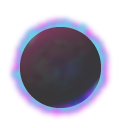
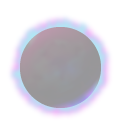
mise à jour des ressources

diff --git a/AndEngineSandBox/src/com/binomed/andengine/MonActiviteDansUneVue.java b/AndEngineSandBox/src/com/binomed/andengine/MonActiviteDansUneVue.java
@@ -47,13 +47,13 @@ public class MonActiviteDansUneVue extends BaseGameActivity implements IScrollDe
 	private Scene scene;
 
 	private BitmapTextureAtlas texture;
-	private TextureRegion textureRegionTrou, textureRegionTrouLight, textureRegionPerso;
-	private TiledTextureRegion textureRegionPersoAnimated;
-	private Pion peg;
+	private TextureRegion regionTrou, regionTrouLight, regionDevil, regionAngel, regionTrash, regionHelp, regionCancel, regionAccept;
+	private TiledTextureRegion regionDevilAnimated, regionAngelAnimated;
+	private Pion movingDevil, movingAngel, currentMoving;
 	private PhysicsHandler physicsHandler;
 	private Rectangle rectangle;
 	private StaticPion[] holeSprite, holeLightSprite;
-	private Sprite perso;// , persoTmp;
+	private StaticPion devil, angel;// , persoTmp;
 	private boolean onRectangle;
 	private int currentHole = 0;
 	private HashMap<Long, StaticPion> mapPion = new HashMap<Long, MonActiviteDansUneVue.StaticPion>();
@@ -69,12 +69,12 @@ public class MonActiviteDansUneVue extends BaseGameActivity implements IScrollDe
 
 		@Override
 		public void onUpdate(float pSecondsElapsed) {
-			boolean rectangleTouch = rectangle.collidesWith(peg);
-			boolean persoTouch = perso.collidesWith(peg);
+			boolean rectangleTouch = rectangle.collidesWith(currentMoving);
+			boolean persoTouch = devil.collidesWith(currentMoving);
 
 			boolean holeTouch = false;
 			for (Sprite hole : holeSprite) {
-				holeTouch = hole.collidesWith(peg);
+				holeTouch = hole.collidesWith(currentMoving);
 				if (holeTouch) {
 					break;
 				}
@@ -95,7 +95,7 @@ public class MonActiviteDansUneVue extends BaseGameActivity implements IScrollDe
 				rectangle.setColor(pRed, pGreen, pBlue, pAlpha);
 				int i = 0;
 				for (Sprite hole : holeSprite) {
-					if (peg.isVisible() && peg.getX() < (hole.getX() + hole.getWidth())) {
+					if (currentMoving.isVisible() && currentMoving.getX() < (hole.getX() + hole.getWidth())) {
 						holeLightSprite[currentHole].setVisible(false);
 						holeLightSprite[i].setVisible(true);
 						currentHole = i;
@@ -105,18 +105,32 @@ public class MonActiviteDansUneVue extends BaseGameActivity implements IScrollDe
 				}
 			}
 
-			if (persoTouch && perso.getX() == peg.getX() && perso.getY() == peg.getY()) {
-				peg.setVisible(false);
+			if (persoTouch && devil.getX() == currentMoving.getX() && devil.getY() == currentMoving.getY()) {
+				currentMoving.setVisible(false);
 			}
 			if (holeTouch) {
 				for (StaticPion hole : holeSprite) {
-					if (hole.getX() == peg.getX() && hole.getY() == peg.getY()) {
-						peg.setVisible(false);
-						if (peg.getID_Pion() == -1 && hole.getID() == -1) {
-							StaticPion persoTmp = new StaticPion(peg.getX(), peg.getY(), textureRegionPerso);
+					if (hole.getX() == currentMoving.getX() && hole.getY() == currentMoving.getY()) {
+						currentMoving.setVisible(false);
+						boolean add = false;
+						if (currentMoving.getID_Pion() == -1 && hole.getID() == -1) {
+							add = true;
+
+						}
+						// else if (currentMoving.getID_Pion() != -1) {
+						// StaticPion pion = mapPion.get(currentMoving.getID_Pion());
+						// if ((pion.angel && !currentMoving.angel) || (!pion.angel && currentMoving.angel)) {
+						// pegMove(pion);
+						// }
+						// add = true;
+						// }
+
+						if (add) {
+							StaticPion persoTmp = new StaticPion(currentMoving.getX(), currentMoving.getY(), currentMoving.isAngel() ? regionAngel : regionDevil);
+							persoTmp.setAngel(currentMoving.isAngel());
 							persoTmp.setID(System.currentTimeMillis());
 							persoTmp.setSourcePeg(false);
-							peg.setID_Pion(persoTmp.getID());
+							currentMoving.setID_Pion(persoTmp.getID());
 							hole.setID(persoTmp.getID());
 							mapPion.put(persoTmp.getID(), persoTmp);
 							mapHole.put(persoTmp.getID(), hole);
@@ -161,10 +175,16 @@ public class MonActiviteDansUneVue extends BaseGameActivity implements IScrollDe
 
 		texture = new BitmapTextureAtlas(1024, 128);
 
-		textureRegionPersoAnimated = BitmapTextureAtlasTextureRegionFactory.createTiledFromAsset(texture, this, "soldier.png", 0, 0, 8, 1);
-		textureRegionPerso = BitmapTextureAtlasTextureRegionFactory.createFromAsset(texture, this, "personnage.png", 320, 0);
-		textureRegionTrou = BitmapTextureAtlasTextureRegionFactory.createFromAsset(texture, this, "blackhole.png", 352, 0);
-		textureRegionTrouLight = BitmapTextureAtlasTextureRegionFactory.createFromAsset(texture, this, "blackhole_light.png", 480, 0);
+		regionDevilAnimated = BitmapTextureAtlasTextureRegionFactory.createTiledFromAsset(texture, this, "devil_animated.png", 0, 0, 8, 1);
+		regionAngelAnimated = BitmapTextureAtlasTextureRegionFactory.createTiledFromAsset(texture, this, "angel_animated.png", 256, 0, 8, 1);
+		regionDevil = BitmapTextureAtlasTextureRegionFactory.createFromAsset(texture, this, "devil.png", 512, 0);
+		regionAngel = BitmapTextureAtlasTextureRegionFactory.createFromAsset(texture, this, "angel.png", 544, 0);
+		regionTrou = BitmapTextureAtlasTextureRegionFactory.createFromAsset(texture, this, "blackhole.png", 576, 0);
+		regionTrouLight = BitmapTextureAtlasTextureRegionFactory.createFromAsset(texture, this, "blackhole_light.png", 704, 0);
+		regionTrash = BitmapTextureAtlasTextureRegionFactory.createFromAsset(texture, this, "trash.png", 832, 0);
+		regionCancel = BitmapTextureAtlasTextureRegionFactory.createFromAsset(texture, this, "cancel.png", 864, 0);
+		regionAccept = BitmapTextureAtlasTextureRegionFactory.createFromAsset(texture, this, "clean.png", 912, 0);
+		regionHelp = BitmapTextureAtlasTextureRegionFactory.createFromAsset(texture, this, "help.png", 960, 0);
 
 		getEngine().getTextureManager().loadTexture(texture);
 
@@ -184,38 +204,51 @@ public class MonActiviteDansUneVue extends BaseGameActivity implements IScrollDe
 		rectangle.setColor(pRed, pGreen, pBlue, pAlpha);
 		scene.attachChild(rectangle);
 
-		// Chargement d'une image
+		// Initialisation des trous
 		holeSprite = new StaticPion[2];
-		StaticPion hole = new StaticPion(50, 50, textureRegionTrou);
+		StaticPion hole = new StaticPion(50, 100, regionTrou);
 		scene.attachChild(hole);
 		holeSprite[0] = hole;
-		hole = new StaticPion(200, 50, textureRegionTrou);
+		hole = new StaticPion(200, 100, regionTrou);
 		scene.attachChild(hole);
 		holeSprite[1] = hole;
 
 		holeLightSprite = new StaticPion[2];
-		hole = new StaticPion(50, 50, textureRegionTrouLight);
+		hole = new StaticPion(50, 100, regionTrouLight);
 		scene.attachChild(hole);
 		hole.setVisible(false);
 		holeLightSprite[0] = hole;
-		hole = new StaticPion(200, 50, textureRegionTrouLight);
+		hole = new StaticPion(200, 100, regionTrouLight);
 		scene.attachChild(hole);
 		hole.setVisible(false);
 		holeLightSprite[1] = hole;
 
-		// Initialisation de notre tank
-		perso = new StaticPion(MonActiviteInteraction.CAMERA_LARGEUR / 2, MonActiviteInteraction.CAMERA_HAUTEUR - 100, textureRegionPerso);
-		scene.attachChild(perso);
-		peg = new Pion(MonActiviteInteraction.CAMERA_LARGEUR / 2, MonActiviteInteraction.CAMERA_HAUTEUR - 100, textureRegionPersoAnimated);
-		// Redimensionne notre tank
-		// peg.setScale(0.5f);
-		final PhysicsHandler physicsHandler = new PhysicsHandler(peg);
-		peg.registerUpdateHandler(physicsHandler);
-		scene.attachChild(peg);
-		// scene.registerTouchArea(peg);
-		scene.registerTouchArea(perso);
-		peg.setVisible(false);
+		// Initialisation des pions d'origine
+		devil = new StaticPion((MonActiviteInteraction.CAMERA_LARGEUR / 2) + 50, MonActiviteInteraction.CAMERA_HAUTEUR - 75, regionDevil);
+		devil.setAngel(false);
+		scene.attachChild(devil);
+		scene.registerTouchArea(devil);
+		angel = new StaticPion((MonActiviteInteraction.CAMERA_LARGEUR / 2) - 50, MonActiviteInteraction.CAMERA_HAUTEUR - 75, regionAngel);
+		angel.setAngel(true);
+		scene.attachChild(angel);
+		scene.registerTouchArea(angel);
 
+		// Initialisation des pions qui bougent
+		movingDevil = new Pion(0, 0, regionDevilAnimated);
+		movingDevil.setAngel(false);
+		final PhysicsHandler physicsHandler = new PhysicsHandler(movingDevil);
+		movingDevil.registerUpdateHandler(physicsHandler);
+		scene.attachChild(movingDevil);
+		movingDevil.setVisible(false);
+		movingAngel = new Pion(0, 0, regionAngelAnimated);
+		movingAngel.setAngel(true);
+		final PhysicsHandler physicsHandlerAngel = new PhysicsHandler(movingAngel);
+		movingAngel.registerUpdateHandler(physicsHandlerAngel);
+		scene.attachChild(movingAngel);
+		movingAngel.setVisible(false);
+		currentMoving = movingDevil;
+
+		// Parametrage de la scene
 		scene.registerUpdateHandler(updateHandler);
 		scene.setTouchAreaBindingEnabled(true);
 		return scene;
@@ -264,7 +297,7 @@ public class MonActiviteDansUneVue extends BaseGameActivity implements IScrollDe
 			@Override
 			public void run() {
 				if (mapPion.containsKey(sprite.getID())) {
-					peg.setID_Pion(-1l);
+					currentMoving.setID_Pion(-1l);
 					mapPion.remove(sprite.getID());
 					mapHole.get(sprite.getID()).setID(-1);
 					mapHole.remove(sprite.getID());
@@ -276,16 +309,22 @@ public class MonActiviteDansUneVue extends BaseGameActivity implements IScrollDe
 
 	}
 
-	public void delegateOnAreaTouched(TouchEvent pSceneTouchEvent, float pTouchAreaLocalX, float pTouchAreaLocalY) {
+	public void delegateOnAreaTouched(boolean angel, TouchEvent pSceneTouchEvent, float pTouchAreaLocalX, float pTouchAreaLocalY) {
+		currentMoving = angel ? movingAngel : movingDevil;
 		if (pSceneTouchEvent.isActionDown() || pSceneTouchEvent.isActionMove()) {
-			peg.setID_Pion(-1);
-			peg.setVisible(true);
-			peg.setPosition(pSceneTouchEvent.getX() - peg.getWidth() / 2, (pSceneTouchEvent.getY() - peg.getHeight() / 2) - 50);
+			currentMoving.setID_Pion(-1);
+			currentMoving.setVisible(true);
+			currentMoving.setPosition(pSceneTouchEvent.getX() - currentMoving.getWidth() / 2, (pSceneTouchEvent.getY() - currentMoving.getHeight() / 2) - 50);
 		} else if (pSceneTouchEvent.isActionUp()) {
 			if (onRectangle) {
-				animatePeg(peg, MonActiviteInteraction.CAMERA_LARGEUR / 2, MonActiviteInteraction.CAMERA_HAUTEUR - 100);
+				if (angel) {
+					animatePeg(currentMoving, (MonActiviteInteraction.CAMERA_LARGEUR / 2) - 50, MonActiviteInteraction.CAMERA_HAUTEUR - 75);
+				} else {
+					animatePeg(currentMoving, (MonActiviteInteraction.CAMERA_LARGEUR / 2) + 50, MonActiviteInteraction.CAMERA_HAUTEUR - 75);
+
+				}
 			} else {
-				animatePeg(peg, holeLightSprite[currentHole].getX(), holeLightSprite[currentHole].getY());
+				animatePeg(currentMoving, holeLightSprite[currentHole].getX(), holeLightSprite[currentHole].getY());
 
 			}
 		}
@@ -299,12 +338,22 @@ public class MonActiviteDansUneVue extends BaseGameActivity implements IScrollDe
 
 		private long ID_Pion = -1l;
 
+		private boolean angel = true;
+
 		public long getID_Pion() {
 			return ID_Pion;
 		}
 
 		public void setID_Pion(long iD_Pion) {
 			ID_Pion = iD_Pion;
+		}
+
+		public boolean isAngel() {
+			return angel;
+		}
+
+		public void setAngel(boolean angel) {
+			this.angel = angel;
 		}
 
 		public Pion(float pX, float pY, float pTileWidth, float pTileHeight, TiledTextureRegion pTiledTextureRegion, RectangleVertexBuffer pRectangleVertexBuffer) {
@@ -323,21 +372,20 @@ public class MonActiviteDansUneVue extends BaseGameActivity implements IScrollDe
 			super(pX, pY, pTiledTextureRegion);
 		}
 
-		@Override
-		public boolean onAreaTouched(TouchEvent pSceneTouchEvent, float pTouchAreaLocalX, float pTouchAreaLocalY) {
-			delegateOnAreaTouched(pSceneTouchEvent, pTouchAreaLocalX, pTouchAreaLocalY);
-			return true;
-		}
-
 	}
 
 	class StaticPion extends Sprite {
 
 		private boolean sourcePeg = true;
+		private boolean angel = true;
 		private long ID = -1;
 
 		public void setSourcePeg(boolean sourcePeg) {
 			this.sourcePeg = sourcePeg;
+		}
+
+		public void setAngel(boolean angel) {
+			this.angel = angel;
 		}
 
 		public long getID() {
@@ -369,7 +417,7 @@ public class MonActiviteDansUneVue extends BaseGameActivity implements IScrollDe
 			if (pSceneTouchEvent.isActionDown() && !sourcePeg) {
 				pegMove(this);
 			}
-			delegateOnAreaTouched(pSceneTouchEvent, pTouchAreaLocalX, pTouchAreaLocalY);
+			delegateOnAreaTouched(angel, pSceneTouchEvent, pTouchAreaLocalX, pTouchAreaLocalY);
 			return true;
 		}
 
